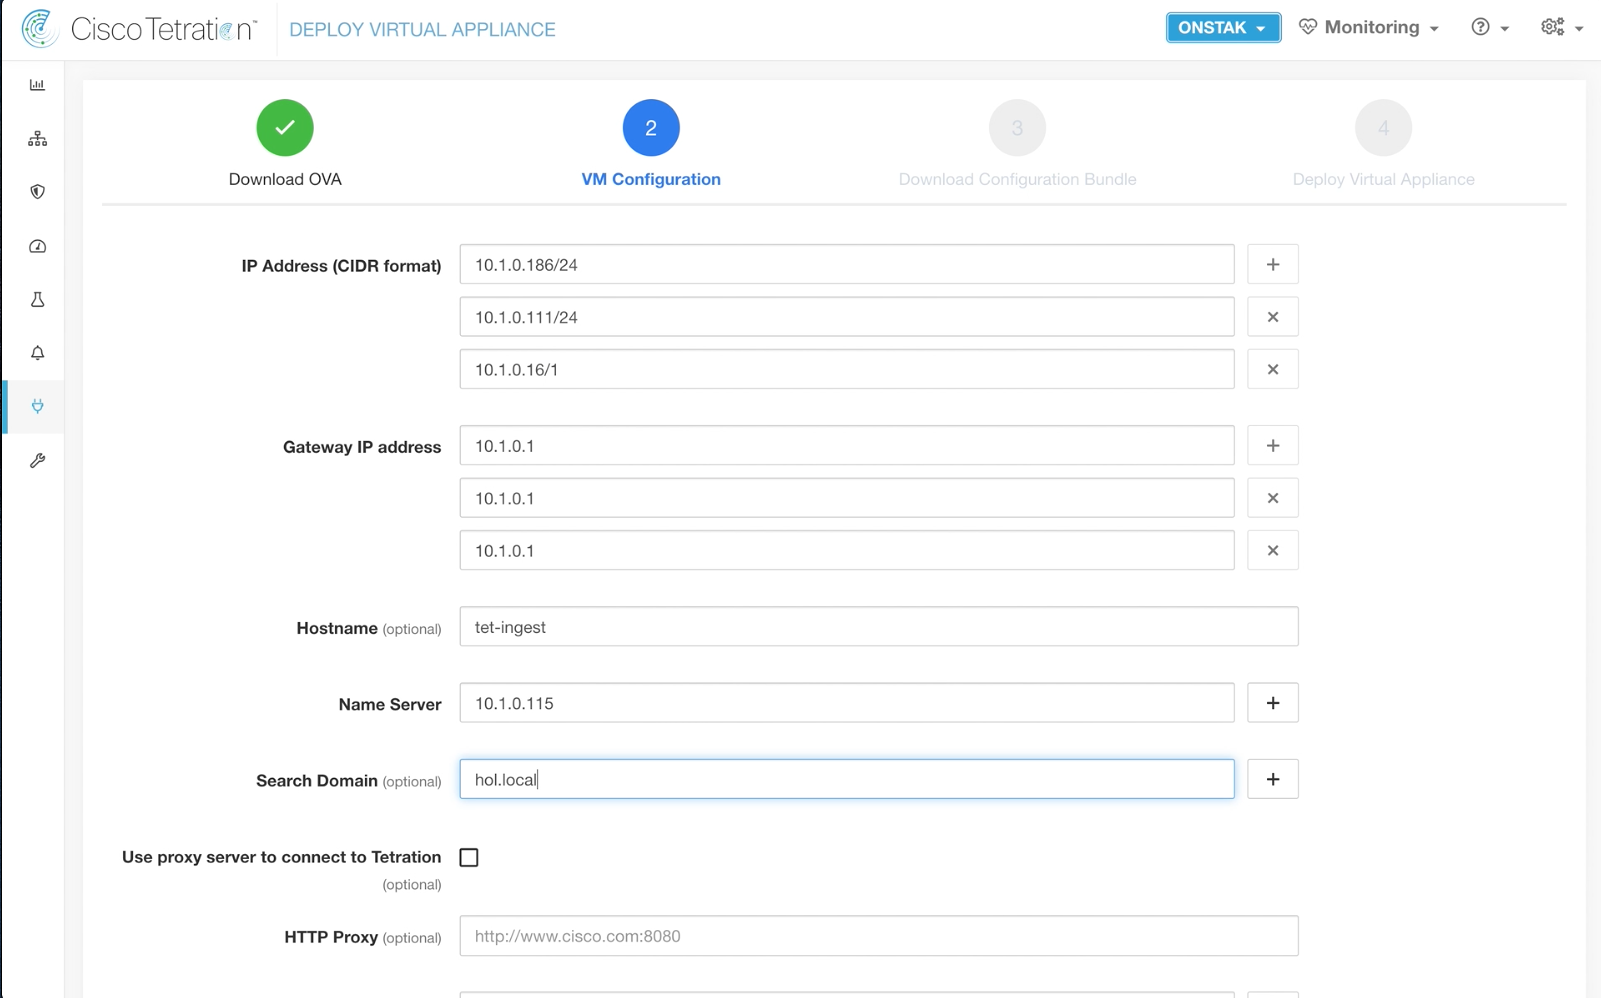
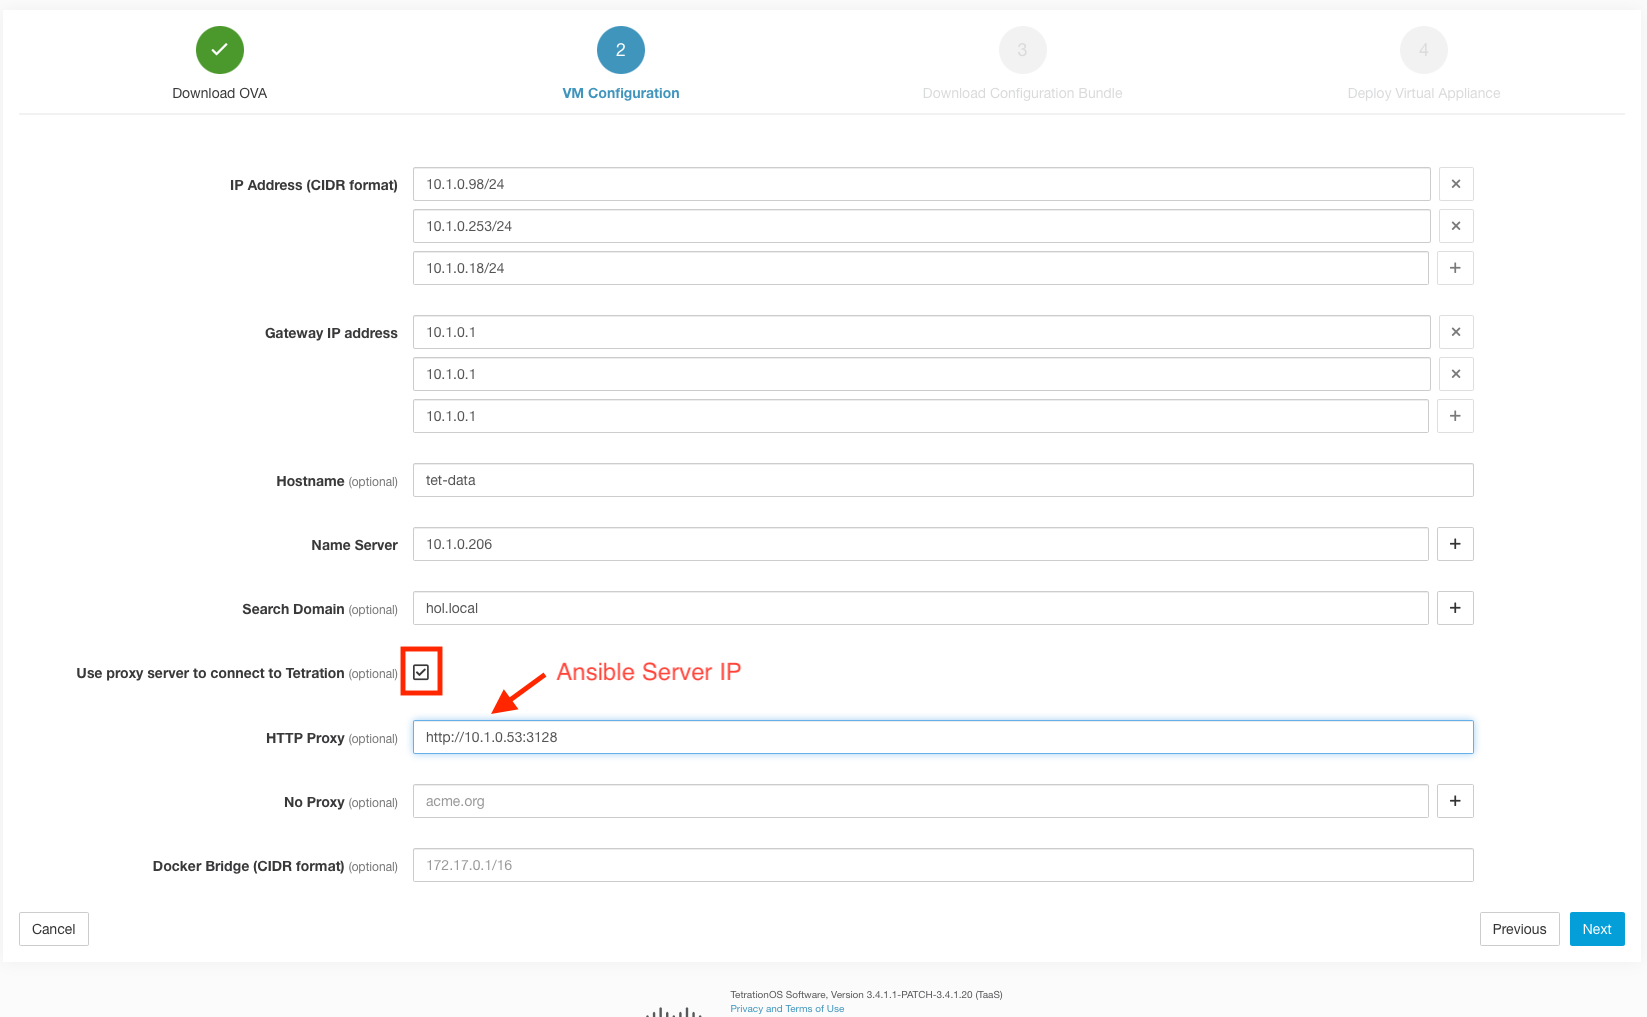
doc updates

diff --git a/lab-env-build/rollback.py b/lab-env-build/rollback.py
@@ -560,3 +560,4 @@ for pod in PODS_LIST:
 
 
 print('INFO: Rollback completed successfully!')
+

diff --git a/bootcamp-w-vids/module_05/README.md b/bootcamp-w-vids/module_05/README.md
@@ -111,7 +111,13 @@ The below information will be used to create a .iso file that we will download, 
 
 > If we were deploying an on-prem appliance, then we would mount the .iso to the virtual CD-ROM on the VM.  
 
-Fill in the appropriate details as can be found on your student worksheet.  There are three IP addresses for the appliance because it runs three Docker containers that must each have a routable IP address on the network.  The IP address of the Active Directory server should be entered as the Name Server.   
+Fill in the appropriate details as can be found on your student worksheet.  There are three IP addresses for the appliance because it runs three Docker containers that must each have a routable IP address on the network.  The IP address of the Active Directory server should be entered as the Name Server.
+  
+The Ansible server provides a proxy server which enables outbound access for the appliance.  Check the box `Use proxy server to connect to Tetration`  and enter the Ansible server IP address from the student worksheet in the `HTTP Proxy` field using the format:
+
+```
+http://YOUR_ANSIBLE_IP:3128
+```
 
 <a href="images/module_05_006.png"><img src="images/module_05_006.png" style="width:100%;height:100%;"></a>  
 
@@ -169,7 +175,9 @@ Wait for all of the files to fully copy. A status window should be displayed in 
 
 <div class="step" id="step-013"><a href="#step-013" style="font-weight:bold">Step 013</a></div>  
 
-Make sure the appliance has outbound Internet connectivity by pinging well-known web sites such as google.com.  Do an `ls -l` to make sure that the files we copied are present on the appliance.
+Do an `ls -l` to make sure that the files we copied are present on the appliance.
+
+> Please ignore the ping command in the image. You will not be able to ping outbound since we switched to using a proxy server.  The image will be fixed later.
 
 <a href="images/module_05_013.png"><img src="images/module_05_013.png" style="width:100%;height:100%;"></a>  
 
